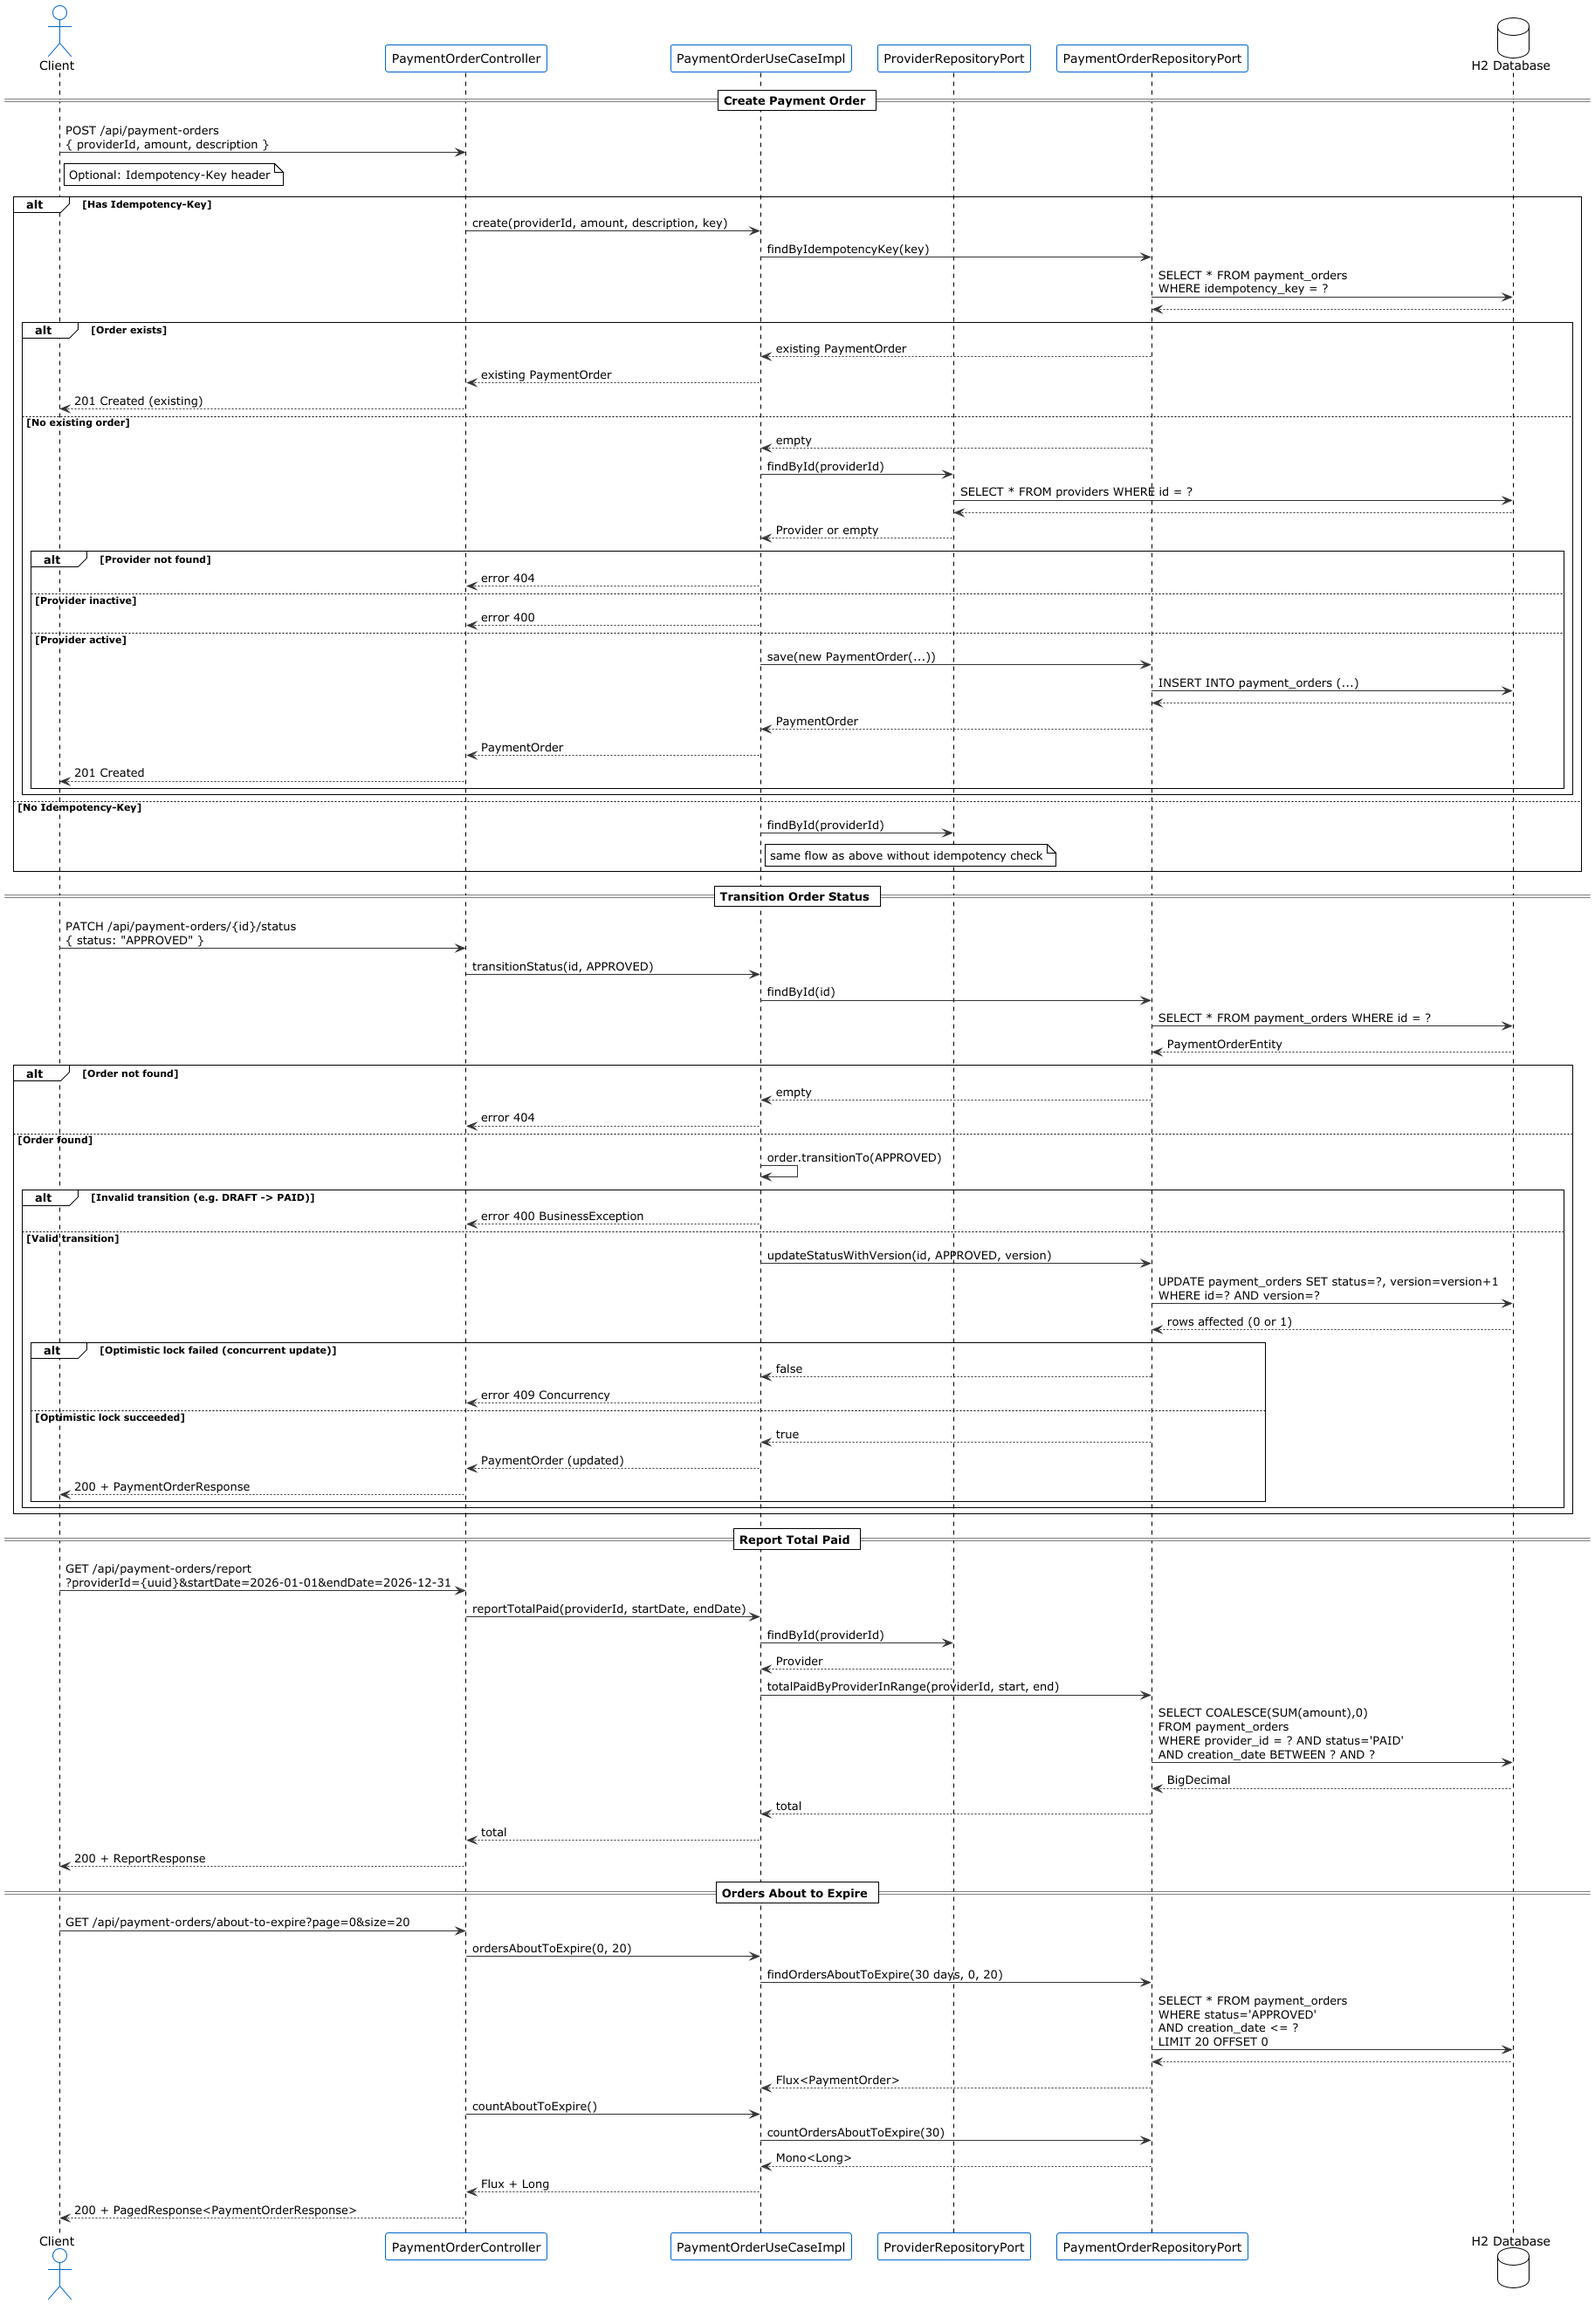
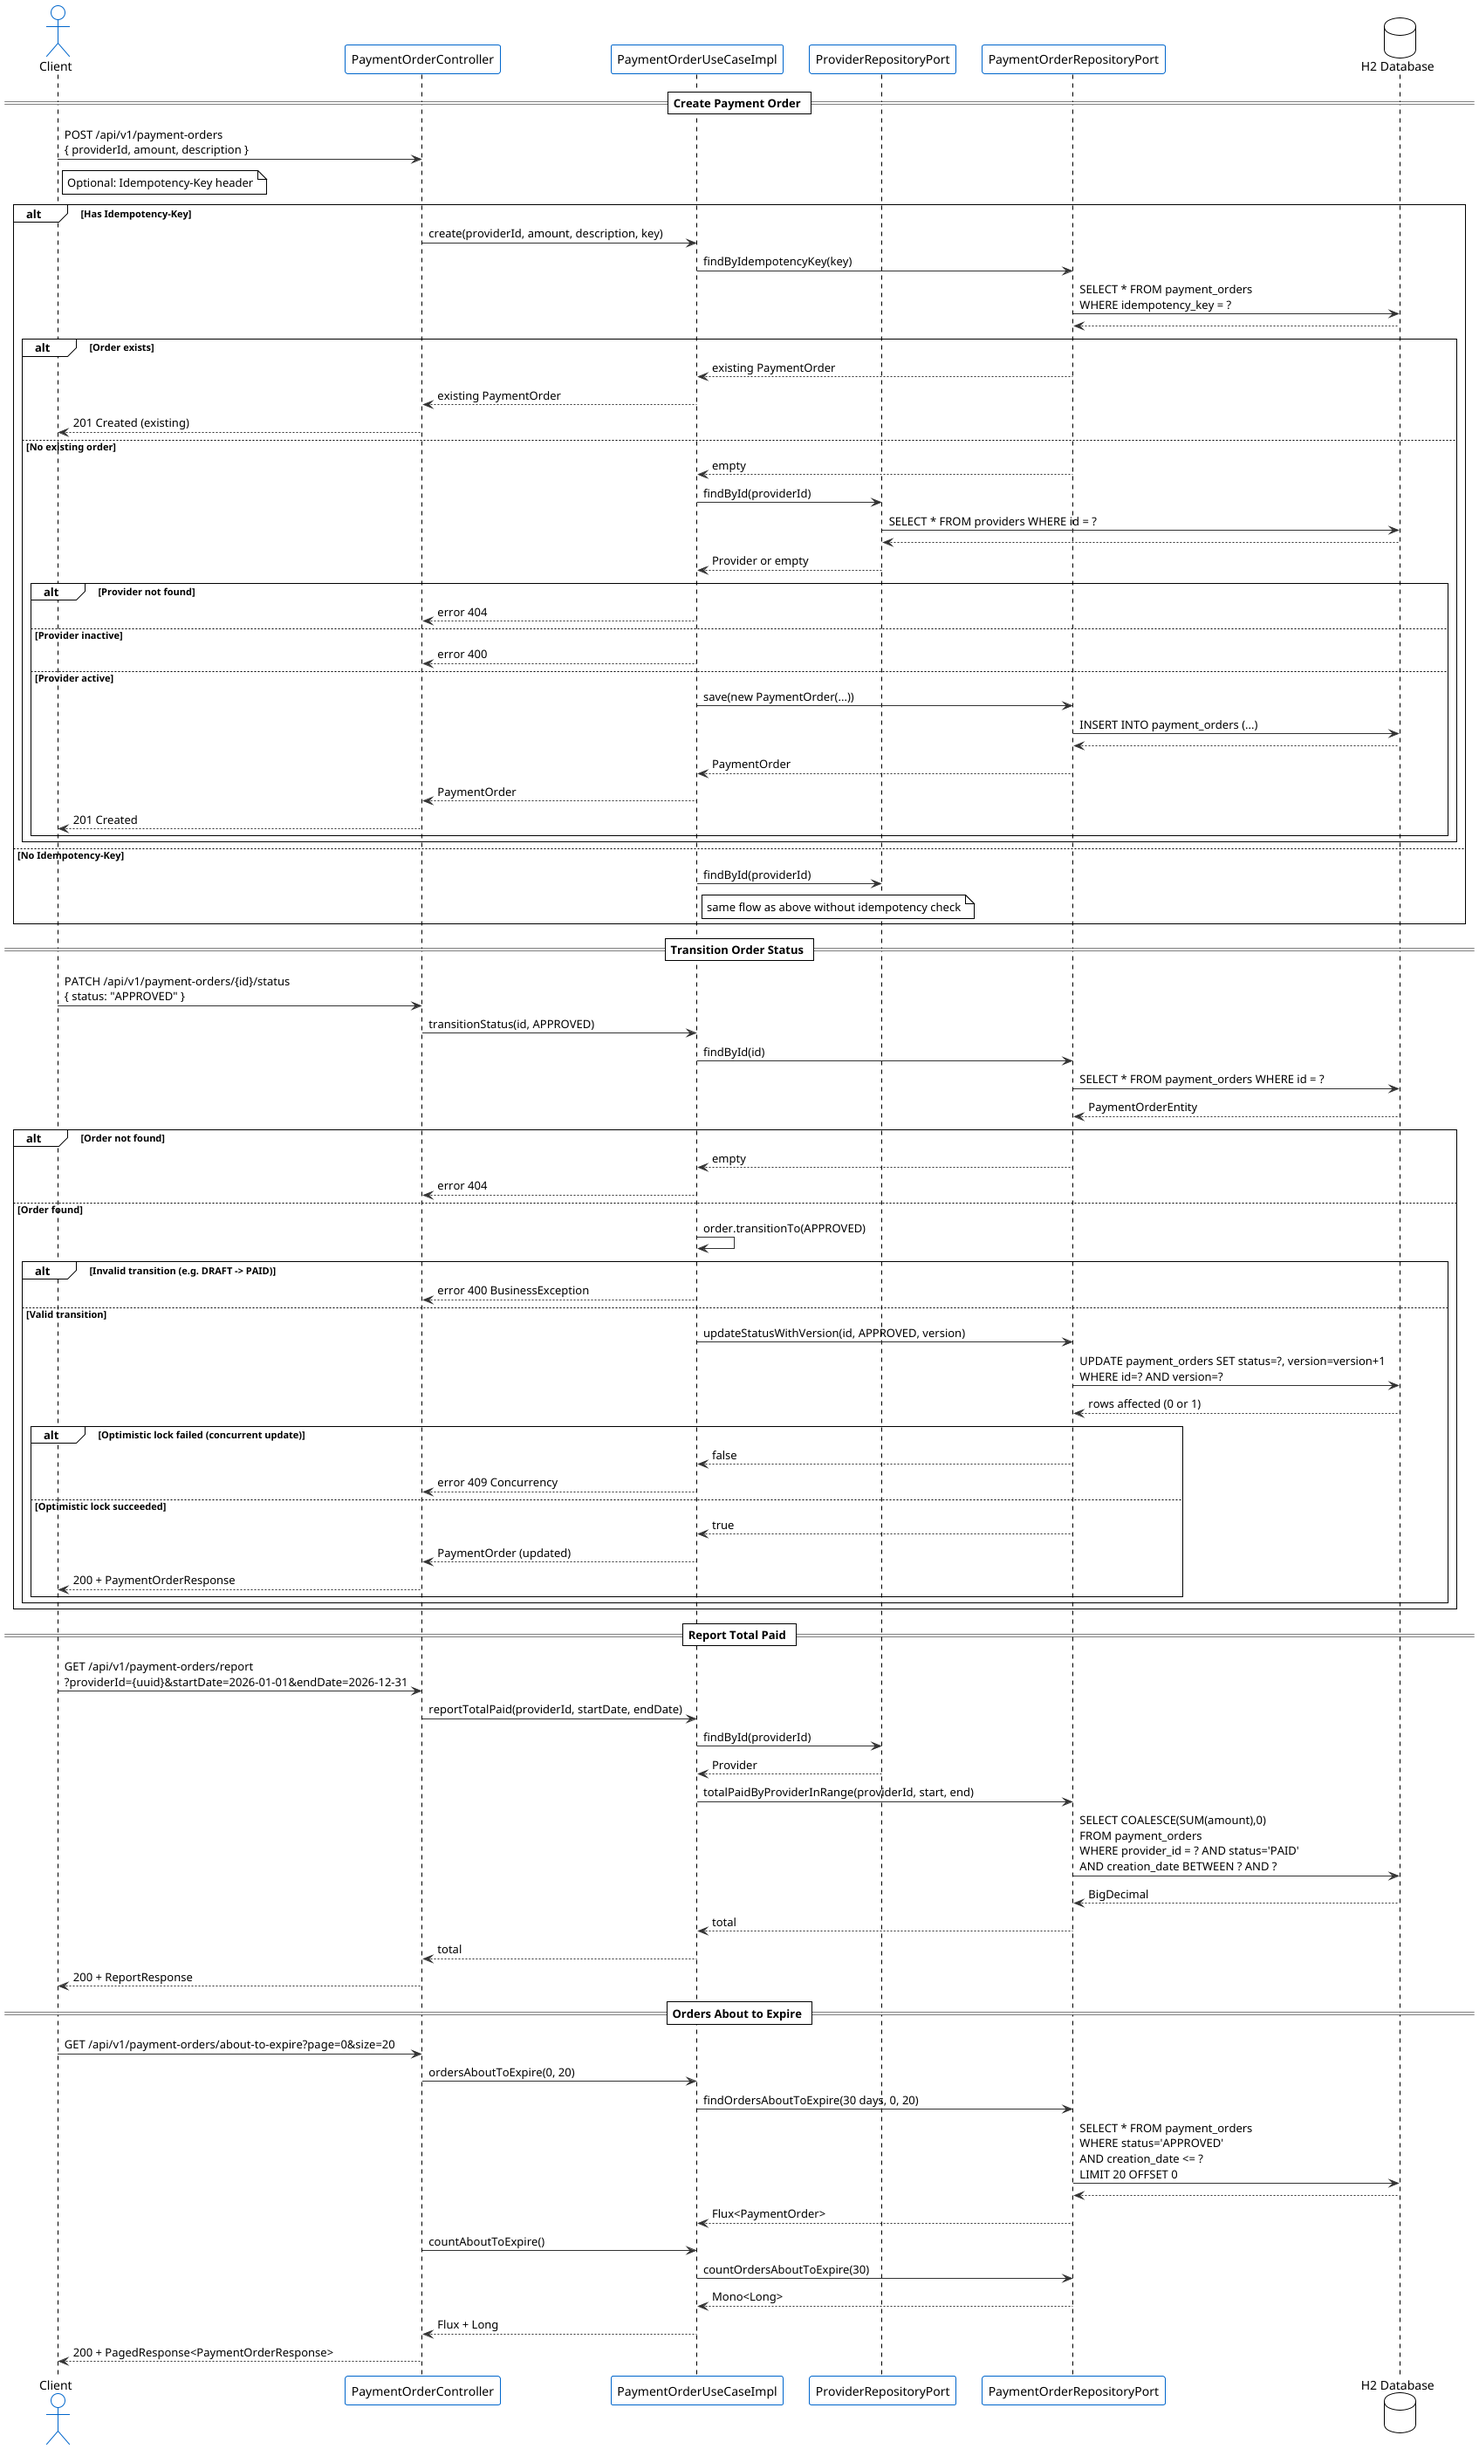
docs: add dummy data for test and update diagrams of plant

diff --git a/README.md b/README.md
@@ -134,7 +134,7 @@ Relational model of the H2 database: `providers` and `payment_orders` tables, th
 ### Provider Interaction — Sequence Diagram
 End-to-end flows for creating, listing, updating, and changing the status of providers, including duplicate NIT validation.
 
-![Interaction Diagram](docs/interaction-diagram.png)
+![Interaction Diagram](docs/providers-interaction.png)
 
 ### Payment Order Interaction — Sequence Diagram
 End-to-end flows for creating payment orders (with idempotency support), transitioning status with optimistic locking, generating the total-paid report, and querying orders about to expire.
